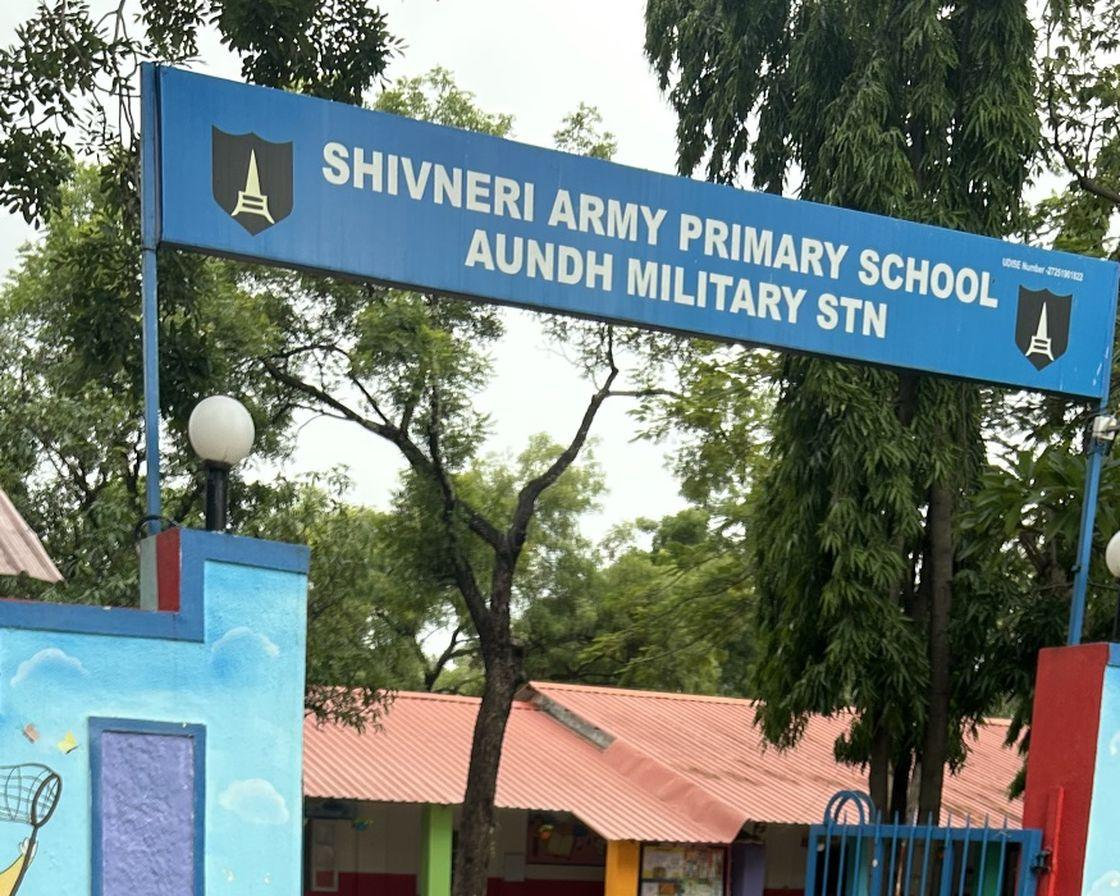
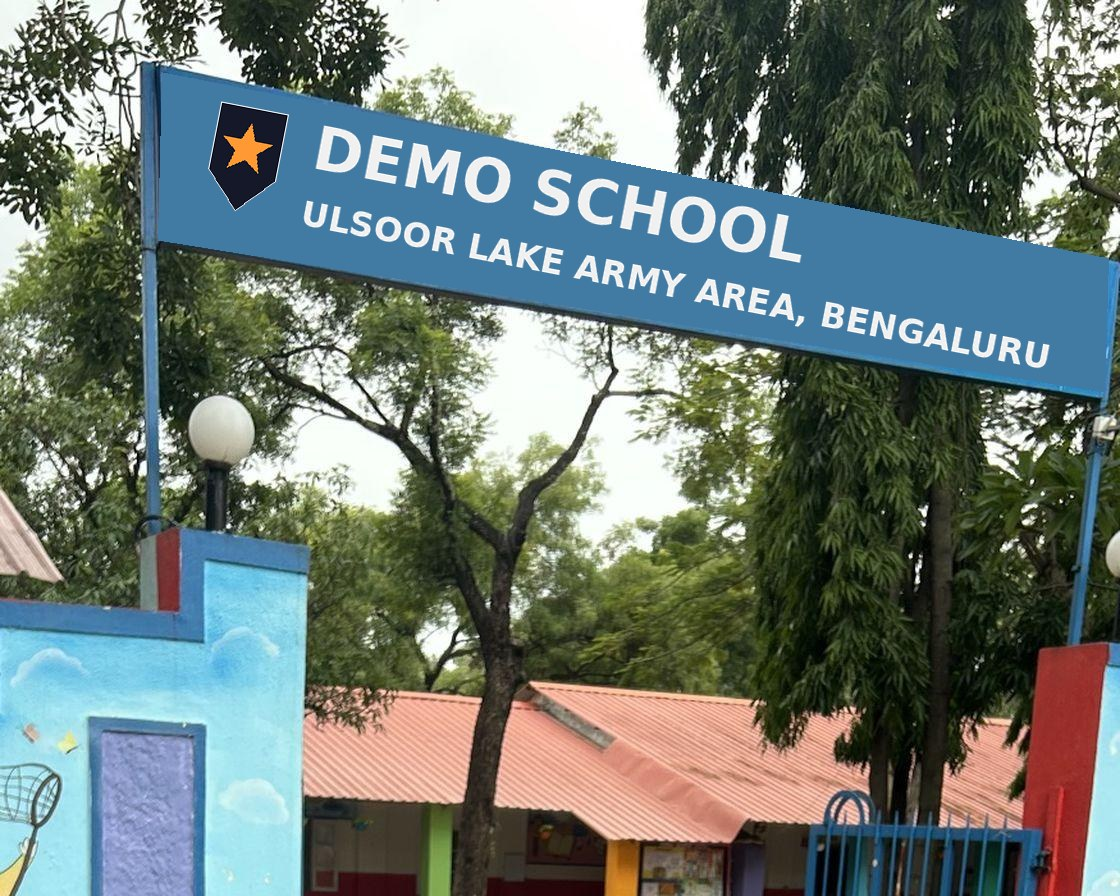
Rename to Demo School, Ulsoor Lake Army Area, Bengaluru: name, address, crest, gate photo, sample codes
Claude-Session: https://claude.ai/code/session_01RzyaSQmKPTi8XWkpHp1K1R

Changed region(s): [[0.1875, 0.0938, 1.0, 0.4375], [0.125, 0.1875, 0.1562, 0.2812]]

diff --git a/site/index.html b/site/index.html
@@ -6,7 +6,7 @@
 <meta name="referrer" content="strict-origin-when-cross-origin">
 
 <meta name="viewport" content="width=device-width, initial-scale=1">
-<title>Shivneri Army Public School, Aundh</title>
+<title>Demo School, Ulsoor Lake Army Area</title>
 <link rel="preconnect" href="https://fonts.googleapis.com">
 <link href="https://fonts.googleapis.com/css2?family=Barlow+Condensed:wght@500;600;700&family=Barlow:wght@400;500;600;700;800&family=Baloo+2:wght@600;700;800&family=Nunito:wght@400;600;700;800&display=swap" rel="stylesheet">
 <style>
@@ -562,8 +562,8 @@ footer{background:var(--navy);color:#c9cfbd!important;padding:22px 16px!importan
 
 <header class="top">
   <div class="wrap">
[1 lines of base64/hex data omitted]
-    <div class="brand" id="brandName">Shivneri Army Public School<small>Aundh Military Station, Pune</small></div>
[1 lines of base64/hex data omitted]
+    <div class="brand" id="brandName">Demo School<small>Ulsoor Lake Army Area, Bengaluru</small></div>
     <div class="who staff-only"><span id="whoName"></span><button type="button" class="btn sm" data-signout id="hdrOut">⏻ Log out</button></div>
     <div class="who parent-only"><span id="parentName"></span><button type="button" class="btn sm" data-parentout>⏻ Log out</button></div>
     <nav class="tabs">
@@ -641,7 +641,7 @@ footer{background:var(--navy);color:#c9cfbd!important;padding:22px 16px!importan
     </div>
     <div class="school-photo" id="schoolPhoto">
       <div class="ph-empty" id="schoolPhEmpty"><svg viewBox="0 0 24 24" fill="none" stroke="#c9b98c" stroke-width="1.4" style="width:64px"><path d="M3 8h3l2-3h8l2 3h3v11H3z"/><circle cx="12" cy="13" r="4"/></svg><span style="color:#e9e4d2;font-weight:700;letter-spacing:.5px">School photo</span></div>
-      <img id="schoolImg" alt="Shivneri Army Public School" style="display:none">
+      <img id="schoolImg" alt="Demo School" style="display:none">
       <button type="button" class="btn sec sm edit-only" id="schoolPhotoBtn">📷 Change photo</button>
       <input type="file" id="schoolPhotoIn" accept="image/*" hidden>
     </div>
@@ -669,7 +669,7 @@ footer{background:var(--navy);color:#c9cfbd!important;padding:22px 16px!importan
         <div class="passport" id="prPhoto">Passport<br>photo</div>
         <div>
           <div class="pr-msg" id="prMsg"></div>
-          <div class="pr-sig"><span id="prName"></span><small>Principal, Shivneri Army Public School</small></div>
+          <div class="pr-sig"><span id="prName"></span><small>Principal, Demo School</small></div>
           <a class="btn pri" href="#principal" style="margin-top:14px;text-decoration:none">🎖 Principal login</a>
         </div>
       </div>
@@ -959,7 +959,7 @@ footer{background:var(--navy);color:#c9cfbd!important;padding:22px 16px!importan
 </section>
 
 </main>
-<footer>Shivneri Army Public School · Aundh Mil. Station, Pune 411027 · Tel 020-27400042 · <a href="guide.html" style="color:inherit;font-weight:800">📖 How to use</a></footer>
+<footer>Demo School · Ulsoor Lake Army Area, Bengaluru 560008 · Tel 080-0000 0000 (demo) · <a href="guide.html" style="color:inherit;font-weight:800">📖 How to use</a></footer>
 
 <div class="toast" id="toast"></div>
 <div class="modal" id="modal"><div class="box"><h3 id="mTitle"></h3><p id="mText"></p><select class="in" id="mWhySel" style="display:none;width:100%;margin:0 0 6px"></select><textarea class="in" id="mWhy" rows="2" maxlength="200" style="display:none;width:100%;margin:0 0 6px" placeholder="Reason (required)"></textarea><div class="row"><button class="btn sec" id="mNo">Cancel</button><button class="btn warn" id="mYes">Delete</button></div></div></div>
@@ -1014,11 +1014,11 @@ import { DEFAULT_TT, PPD, teachesIn, fixedSlots, CLOSED_KINDS, planLessons, sche
 import { initializeAppCheck, ReCaptchaV3Provider } from "https://www.gstatic.com/firebasejs/10.12.2/firebase-app-check.js";
 import { initializeAuth, inMemoryPersistence, browserSessionPersistence, signInWithEmailAndPassword, createUserWithEmailAndPassword, sendEmailVerification, signOut, onAuthStateChanged, sendPasswordResetEmail, verifyPasswordResetCode, confirmPasswordReset, applyActionCode, updatePassword, reauthenticateWithCredential, EmailAuthProvider } from "https://www.gstatic.com/firebasejs/10.12.2/firebase-auth.js";
 /* ---------- Config ---------- */
[2 lines of base64/hex data omitted]
 const SCHOOL = {
-  name:"Shivneri Army Public School",
-  addr:"Aundh Mil. Station, Aundh, Pune - 411027",
-  extra:"Regd. Code MH/1358/2009 · UDISE 27251901822"
+  name:"Demo School",
+  addr:"Ulsoor Lake Army Area, Ulsoor, Bengaluru - 560008",
+  extra:"Regd. Code XX/0000/0000 (sample) · UDISE 0000000000 (sample)"
 };
 /* The school: classes I–V. I and II have sections A–C; III, IV and V have A–B. */
 const SECTIONS = {I:["A","B","C"],II:["A","B","C"],III:["A","B"],IV:["A","B"],V:["A","B"]};
@@ -1598,7 +1598,7 @@ $("#bulkBtn").onclick=()=>{ const cls=$("#fStd").value+"-"+$("#fDiv").value, ter
 $("#bkClose").onclick=()=>$("#bulkModal").classList.remove("on");
 $("#bkDown").onclick=()=>{ const sub=$("#bkSub").value, list=classRecords(); const C=compsFor({term:BK.term});
   if(!list.length) return toast("No students in this class yet. The class teacher adds them first.");
-  const lines=[["Shivneri APS marks sheet"],["Year",BK.year,"Exam",BK.term,"Class",BK.cls,"Subject",sub],[],["Roll","Name",...C.map(c=>`${c.l} (out of ${c.max})`)]];
+  const lines=[["Demo School marks sheet"],["Year",BK.year,"Exam",BK.term,"Class",BK.cls,"Subject",sub],[],["Roll","Name",...C.map(c=>`${c.l} (out of ${c.max})`)]];
   list.forEach(r=>{ const x=(r.subjects||[]).find(s=>s.name===sub)||{}; lines.push([r.roll,r.name,...C.map(c=>x[c.k]??"")]); });
   const blob=new Blob(["\uFEFF"+lines.map(l=>l.map(csvCell).join(",")).join("\r\n")],{type:"text/csv"});
   const a=document.createElement("a"); a.href=URL.createObjectURL(blob); a.download=`marks-${BK.cls}-${BK.term}-${sub}.csv`.replace(/\s+/g,"_"); a.click(); setTimeout(()=>URL.revokeObjectURL(a.href),2000); };
@@ -1917,7 +1917,7 @@ function renderHome(){
   $("#prName").textContent=HOME.name||DEFAULT_PR.name;
   const pp=$("#prPhoto"); pp.classList.toggle("has",!!HOME.photo); pp.innerHTML=HOME.photo?`<img src="${safeImg(HOME.photo)}" alt="Principal">`:"Passport<br>photo";
   /* the principal's uploaded photo wins; otherwise the school gate photo shipped with the site */
-  $("#schoolImg").style.display="block"; $("#schoolImg").src=SCHOOL_PHOTO?safeImg(SCHOOL_PHOTO):"school.jpg?v=3";
+  $("#schoolImg").style.display="block"; $("#schoolImg").src=SCHOOL_PHOTO?safeImg(SCHOOL_PHOTO):"school.jpg?v=4";
   $("#schoolPhEmpty").style.display="none";
 }
 async function writeConfig(id,data){ await setDoc(doc(db,"config",id),data); }
@@ -2683,7 +2683,7 @@ document.addEventListener("click",async e=>{
     row[a]=B; row[b]=A; ttS.draft=g; ttS.swap=null; renderTT(); return; }
   if(e.target.id==="ttUndo"){ ttS.draft=null; renderTT(); return; }
   if(e.target.id==="ttSaveSwap"){ try{ await pubSet("timetable",TT_YEAR(),{...TT,grid:ttS.draft,updatedAt:new Date().toISOString(),updatedBy:ME.email}); ttS.draft=null; toast("Timetable saved ✓"); }catch(err){ toast("Couldn't save: "+errMsg(err)); } return; }
-  if(e.target.id==="ttPrint"){ printCards(`<div class="rc" style="padding:12px"><h2 style="margin:0 0 8px">Shivneri Army Public School · Timetable ${esc(TT_YEAR())}</h2><h3 style="margin:0 0 10px">${ttS.tab==="class"?"Class "+esc(ttS.cls):esc(tName(ttS.teacher))}</h3>${$("#ttBody .tbl-wrap").outerHTML}</div>`); return; }
+  if(e.target.id==="ttPrint"){ printCards(`<div class="rc" style="padding:12px"><h2 style="margin:0 0 8px">Demo School · Timetable ${esc(TT_YEAR())}</h2><h3 style="margin:0 0 10px">${ttS.tab==="class"?"Class "+esc(ttS.cls):esc(tName(ttS.teacher))}</h3>${$("#ttBody .tbl-wrap").outerHTML}</div>`); return; }
   // leave
   if(e.target.id==="lvAdd"){ const from=$("#lvFrom").value, to=$("#lvTo").value||from; if(!from) return toast("Choose the dates"); if(to<from) return toast("'To' can't be before 'From'");
     const who=isOffice()?$("#lvWho").value:ME.email; const d={email:who,from,to,type:$("#lvType").value,reason:$("#lvWhy").value.trim().slice(0,200),status:isFull()?"Approved":isOffice()?"Recommended":"Requested",createdBy:ME.email,createdAt:new Date().toISOString(),sample:!!(STAFF[who]&&STAFF[who].sample)};
@@ -2708,7 +2708,7 @@ document.addEventListener("click",async e=>{
     c.exams=planExams({start:c.start,end:c.end,days:st.days,holidays:c.holidays||[],subjects:groups,gap:$("#exGap").checked}); toast("Exams spaced out. Check the dates, then Save."); renderTT(); return; }
   if(e.target.id==="calUndo"){ calDraft=null; renderTT(); return; }
   if(e.target.id==="calSave"){ try{ await pubSet("calendar",TT_YEAR(),{...calDraft,updatedAt:new Date().toISOString(),updatedBy:ME.email}); calDraft=null; toast("Calendar saved ✓"); SUBPLAN=null; renderHomeCal(); renderTT(); }catch(err){ toast("Couldn't save: "+errMsg(err)); } return; }
-  if(e.target.id==="calPrint"){ printCards(`<div class="rc" style="padding:14px"><h2 style="margin:0 0 8px">Shivneri Army Public School · School calendar ${esc(TT_YEAR())}</h2>${$("#ttBody").innerHTML.replace(/<div class="apick"[\s\S]*?<\/div>/,"").replace(/<button[\s\S]*?<\/button>/g,"")}</div>`); return; }
+  if(e.target.id==="calPrint"){ printCards(`<div class="rc" style="padding:14px"><h2 style="margin:0 0 8px">Demo School · School calendar ${esc(TT_YEAR())}</h2>${$("#ttBody").innerHTML.replace(/<div class="apick"[\s\S]*?<\/div>/,"").replace(/<button[\s\S]*?<\/button>/g,"")}</div>`); return; }
   // setup
   const day=e.target.closest("[data-day]"); if(day){ const s=ttS.setup, d=day.dataset.day; s.days=s.days.includes(d)?s.days.filter(x=>x!==d):DAYNAMES.slice(1).concat("Sun").filter(x=>x===d||s.days.includes(x)); renderTT(); return; }
   const sd=e.target.closest("[data-std]"); if(sd){ const s2=ttS.setup, x=sd.dataset.std; s2.stds=(s2.stds||[]).includes(x)?s2.stds.filter(y=>y!==x):STDS.filter(y=>y===x||(s2.stds||[]).includes(y)); renderTT(); return; }
@@ -3505,13 +3505,13 @@ document.addEventListener("click",async e=>{ const t=e.target.closest("[data-stu
 const DISC_DOCS=[["affiliation","Affiliation / upgradation letter and recent extension of affiliation"],["society","Societies / Trust / Company registration and renewal certificate"],["noc","No Objection Certificate (NOC) issued by the State Government / UT"],["rte","Recognition certificate under the RTE Act, 2009, and its renewal"],["building","Building safety certificate as per the National Building Code"],["fire","Fire safety certificate issued by the competent authority"],["deo","DEO certificate submitted by the school for affiliation / upgradation / extension, or self-certification by the school"],["water","Water, health and sanitation certificates"]];
 const DISC_ACAD=[["fees","Fee structure of the school"],["calendar","Annual academic calendar"],["smc","List of School Management Committee (SMC)"],["pta","List of Parents Teachers Association (PTA) members"],["board","Last three years' result of the Board examination (not applicable: classes I to V)"]];
 const DISC_INFRA=[["area","Total campus area of the school (sq m)"],["rooms","Number and size of classrooms (sq m)"],["labs","Number and size of laboratories, incl. computer labs (sq m)"],["internet","Internet facility (Y/N)"],["girlsT","Number of girls' toilets"],["boysT","Number of boys' toilets"],["video","Link of YouTube video of the inspection of school covering the infrastructure"]];
-const DEF_COMMITTEES=[{name:"Grievance Redressal Committee (public, staff, parents, students)",members:"Principal (Chairperson) · Coordinator · Two senior teachers · Parent member (sample)",contact:"grievance@school.sample · 020-27400042"},
+const DEF_COMMITTEES=[{name:"Grievance Redressal Committee (public, staff, parents, students)",members:"Principal (Chairperson) · Coordinator · Two senior teachers · Parent member (sample)",contact:"grievance@school.sample · 080-0000 0000 (demo)"},
   {name:"Internal Complaints Committee (sexual harassment at workplace, POSH Act 2013)",members:"Senior woman teacher (Presiding officer) · Two staff members · External member from an NGO (sample)",contact:"icc@school.sample"},
   {name:"Committee under the POCSO Act, 2012 (child protection)",members:"Principal · Counsellor · Woman teacher · Parent member (sample)",contact:"pocso@school.sample · Childline 1098"},
   {name:"Anti-bullying Committee",members:"Coordinator · PT teacher · Two class teachers (sample)",contact:"coordinator@school.sample"},
   {name:"School Management Committee (SMC)",members:"Station Commander (Chairman) · Principal (Secretary) · Teacher and parent representatives (sample)",contact:"Through the school office"}];
 const DEF_DISC={sample:true,
-  general:{name:"Shivneri Army Public School",affNo:"11XXXXX (sample)",schoolCode:"XXXXX (sample)",address:"Aundh Military Station, Pune 411027",principal:"Mrs Anjali Mehra (sample)",principalQual:"M.A., M.Ed. (sample)",email:"office@school.sample",phone:"020-27400042",
+  general:{name:"Demo School",affNo:"11XXXXX (sample)",schoolCode:"XXXXX (sample)",address:"Ulsoor Lake Army Area, Bengaluru 560008",principal:"Mrs Anjali Mehra (sample)",principalQual:"M.A., M.Ed. (sample)",email:"office@school.sample",phone:"080-0000 0000 (demo)",
     dpoName:"Principal (sample)",dpoEmail:"privacy@school.sample",officialSite:""},
   docs:{}, acad:{},
   staff:{principal:"1",total:"16",pgt:"0",tgt:"0",prt:"15",sections:"12",ratio:"1 : 1.33",special:"Mrs Kirti Deshmukh, B.Ed. (Special Education), RCI registered (sample)",counsellor:"Mrs ... (counsellor and wellness teacher) (sample)",
@@ -3749,7 +3749,7 @@ document.addEventListener("click",async e=>{ const b=e.target.closest("[data-ads
 const QS=["Q1","Q2","Q3","Q4"];
 const DEF_FEEPLAN={sample:true,quarters:{Q1:{label:"Apr – Jun",start:"04-01",due:"04-10"},Q2:{label:"Jul – Sep",start:"07-01",due:"07-10"},Q3:{label:"Oct – Dec",start:"10-01",due:"10-10"},Q4:{label:"Jan – Mar",start:"01-01",due:"01-10"}},
   amounts:{I:6300,II:6300,III:6900,IV:6900,V:6900},lateFee:"₹ 100 after the due date (sample)",
-  pay:{bank:"State Bank of India, Aundh (sample)",accName:"Shivneri APS School Fund (sample)",acc:"XXXXXXXX1234 (sample)",ifsc:"SBIN0XXXXXX (sample)",upi:"shivneriaps@sbi (sample)",counter:"Fee counter: Monday to Friday, 8:30 AM to 12:30 PM",note:"Write the child's name, class and roll no. in the payment remarks."}};
+  pay:{bank:"State Bank of India, Ulsoor (sample)",accName:"Demo School School Fund (sample)",acc:"XXXXXXXX1234 (sample)",ifsc:"SBIN0XXXXXX (sample)",upi:"demoschool@bank (sample)",counter:"Fee counter: Monday to Friday, 8:30 AM to 12:30 PM",note:"Write the child's name, class and roll no. in the payment remarks."}};
 let FEEPLAN=null, FEES={}, unsubFEES=null;
 if(db) onSnapshot(doc(db,"config","feeplan"),d=>{ FEEPLAN=d.exists()?d.data():null; renderFlash(); if(location.hash==="#students"&&stu.tab==="fees") renderStu(); },()=>{});
 const FP=()=>{ const f=FEEPLAN||{}; return {...DEF_FEEPLAN,...f,quarters:{...DEF_FEEPLAN.quarters,...(f.quarters||{})},amounts:{...DEF_FEEPLAN.amounts,...(f.amounts||{})},pay:{...DEF_FEEPLAN.pay,...(f.pay||{})}}; };

diff --git a/site/guide.html b/site/guide.html
@@ -4,7 +4,7 @@
 <meta charset="UTF-8">
 <meta http-equiv="Content-Security-Policy" content="default-src 'self'; style-src 'self' 'unsafe-inline' https://fonts.googleapis.com; font-src https://fonts.gstatic.com; img-src 'self' data:; object-src 'none'; base-uri 'self'">
 <meta name="viewport" content="width=device-width, initial-scale=1">
-<title>How to use the school website · Shivneri APS</title>
+<title>How to use the school website · Demo School</title>
 <link href="https://fonts.googleapis.com/css2?family=Baloo+2:wght@600;800&family=Nunito:wght@400;700;800&display=swap" rel="stylesheet">
 <style>
 body{font-family:Nunito,system-ui,sans-serif;margin:0;background:#faf8ff;color:#1f1d3a;line-height:1.55}
@@ -23,7 +23,7 @@ a{color:#5435c9;font-weight:800}
 </head>
 <body><div class="wrap">
 <h1>📖 How to use the school website</h1>
-<p class="sub">Shivneri Army Public School · one page for parents, teachers, the principal and the admin. <a href="./">← Back to the portal</a></p>
+<p class="sub">Demo School · one page for parents, teachers, the principal and the admin. <a href="./">← Back to the portal</a></p>
 
 <div class="card"><h2><span class="tag t4">Parents</span> See your child's report card</h2>
 <ol>
